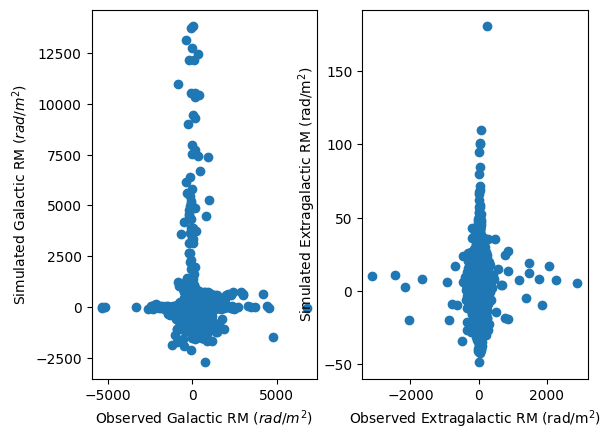
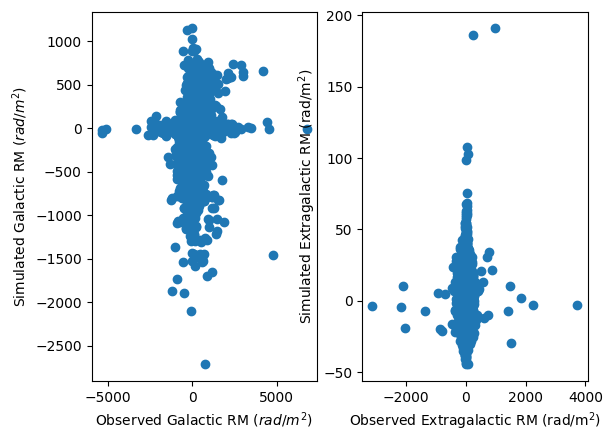
Noise std sampled from observed values.

diff --git a/catalog_maker.py b/catalog_maker.py
@@ -75,7 +75,7 @@ class CatalogMaker():
 
         if(self.params['params_mock_cat.maker_params.maker_type'] == "seb23"):
 
-            rm_gal, b, dm =seb23(self.params['params_mock_cat.maker_params.seed'])
+            rm_gal, b, dm =seb23(self.params)
 
             if self.params['params_mock_cat.maker_params.disk_on']==1:
                 eg_gal_data = eg_projector(rm_gal)
@@ -114,48 +114,50 @@ class CatalogMaker():
         egal_mock_position = ift.full(emodel.get_model().domain, 0.0)
         print(f'mock:{egal_mock_position.val}')
 
-        ### Specify noise
-        noise_eg = self.params['params_mock_cat.maker_params.noise_eg']
-        noise_gal = self.params['params_mock_cat.maker_params.noise_gal']
-
-        print('EG Noise std =', noise_eg)
-        print('Gal Noise std =', noise_gal)
 
         rm_data=np.array(eg_gal_data.val)
 
-        if self.params['params_mock_cat.maker_params.npi']==True:
-            b_indices=np.where(np.isnan(data['z_best']))[0]
-            np.random.seed(seed=self.params['params_mock_cat.maker_params.seed'])
-            npi_indices=np.unique(np.random.choice(b_indices, size=self.params['params_mock_cat.maker_params.npi_los']))
-            print(npi_indices)
-            print(npi_indices.size)
-            rm_data[npi_indices] += 14000*np.exp(-np.abs(eg_b[npi_indices]))
-           # y = rm_data
-           # for i in (npi_indices):
-           #     rm_data[i]+=14000*np.exp(-eg_b[i])
+        #creating mock sigma gal
+        #NVSS cat 2009ApJ...702.1230T
+        #LoTSS cat "LoTSS DR2 (O'Sullivan et al. 2022) "
+        cat_index_gal=np.where(data['catalog']==self.params['params_mock_cat.maker_params.cat_gal'])[0][~np.isnan(np.where(data['catalog']==self.params['params_mock_cat.maker_params.cat_gal'])[0])]
+        sigma_gal = data['rm_err'][cat_index_gal]
+        histogram_sigma_gal = rv_histogram(np.histogram(sigma_gal, bins=10000), density=False)
+        sigma_gal_mock=histogram_sigma_gal.rvs(size=ltheta-lerm)
+        sigma_gal_mock_field=ift.Field.from_raw(ift.UnstructuredDomain(ltheta-lerm),np.array(sigma_gal_mock))
+        N_gal = ift.DiagonalOperator(sigma_gal_mock_field**2, domain=ift.UnstructuredDomain(ltheta-lerm), sampling_dtype=np.float64)
 
-
-        N_eg = ift.ScalingOperator(ift.UnstructuredDomain(lerm), noise_eg**2, np.float64)
-        N_gal = ift.ScalingOperator(ift.UnstructuredDomain(ltheta-lerm), noise_gal**2, np.float64)
 
         ### rm data assembly ###
         rm_data[np.isnan(data['z_best'])] +=  N_gal.draw_sample().val
         print(rm_data.min(), rm_data.max(), rm_data.mean())
 
+        #creating mock sigma eg
+        cat_index_eg=np.where(data['catalog']==self.params['params_mock_cat.maker_params.cat_eg'])[0][~np.isnan(np.where(data['catalog']==self.params['params_mock_cat.maker_params.cat_eg'])[0])]
+        sigma_eg = data['rm_err'][cat_index_eg]
+        histogram_sigma_eg = rv_histogram(np.histogram(sigma_eg, bins=100), density=False)
+        sigma_eg_mock=histogram_sigma_eg.rvs(size=lerm)
+        sigma_eg_mock_field=ift.Field.from_raw(ift.UnstructuredDomain(lerm),np.array(sigma_eg_mock))
+        N_eg = ift.DiagonalOperator(sigma_eg_mock_field**2, domain=ift.UnstructuredDomain(lerm), sampling_dtype=np.float64)
+        rm_data[z_indices]+= N_eg.draw_sample().val
 
-        if self.params['params_mock_cat.maker_params.eg_on']==1:
+
+
+        if self.params['params_mock_cat.maker_params.eg_on']==True:
             np.random.seed(seed=self.params['params_mock_cat.maker_params.seed'])
             rand_rm=np.random.normal(0.0, 1.0,len(e_rm))
             #rand_rm=self.rng.normal(0.0, 1.0,len(e_rm))
             egal_contr = emodel.get_model().sqrt()(egal_mock_position).val*rand_rm
-            rm_data[z_indices]+=egal_contr + N_eg.draw_sample().val
+            rm_data[z_indices]+=egal_contr 
             print('std',np.std(egal_contr))
             print('mean',np.mean(egal_contr))
 
-        #rm_data_field=ift.makeField(ift.UnstructuredDomain(ltheta), rm_data)
         noised_rm_data=ift.makeField(ift.UnstructuredDomain(ltheta), rm_data)
+        #Print noise
+        print('Gal noise', N_gal.draw_sample().val.std())
+        print('Egal noise', N_eg.draw_sample().val.std())
 
-        #noised_rm_data = rm_data_field + N.draw_sample()
+
 
         #Plot 1
         plot = ift.Plot()
@@ -177,8 +179,8 @@ class CatalogMaker():
         plt.savefig('Mock_cat_obs_vs_sim.png', bbox_inches='tight')
 
         data['rm'] = np.array(noised_rm_data.val)
-        data['rm_err'][np.isnan(data['z_best'])] =  noise_gal*np.ones(ltheta-lerm)
-        data['rm_err'][~np.isnan(data['z_best'])] =  noise_eg*np.ones(lerm)
+        data['rm_err'][np.isnan(data['z_best'])] =  sigma_gal_mock*np.ones(ltheta-lerm)
+        data['rm_err'][~np.isnan(data['z_best'])] =  sigma_eg_mock*np.ones(lerm)
         
         hdu= fits.open(self.params['params_inference.cat_path']+'master_catalog_vercustom.fits')
         hdu[1].data['rm'][np.where(hdu[1].data['type']!='Pulsar')] = data['rm']

diff --git a/src/helper_functions/data/get_ymw.py b/src/helper_functions/data/get_ymw.py
@@ -10,24 +10,24 @@ from ..logger import logger, Format
 
 
 
-def load_ymw_sky(data_path, model, mode, nside):
+def load_ymw_sky(model, mode, params):
 
-    filename = data_path + '{}_allsky_{}_{}.fits'.format(model, nside, mode)
+    filename = params['params_inference.dm_path'] + '{}_allsky_{}_{}.fits'.format(model, params['params_inference.nside'], mode)
     if os.path.exists(filename):
-        logger.info("DATA LOADING: load_ymw: loading existing file {} with nside {}".format(filename, nside))
+        logger.info("DATA LOADING: load_ymw: loading existing file {} with nside {}".format(filename, params['params_inference.nside']))
         d_2016 = hp.read_map(filename)
     elif has_pygedm:
         logger.info("DATA LOADING: load_ymw: Generating fullsky healpix dm map based on ymw model... (this may take a while)")
-        pix_id = np.arange(hp.nside2npix(nside))
-        gl, gb = hp.pix2ang(nside, pix_id, lonlat=True)
+        pix_id = np.arange(hp.nside2npix(params['params_inference.nside']))
+        gl, gb = hp.pix2ang(params['params_inference.nside'], pix_id, lonlat=True)
         d_2016 = np.zeros_like(pix_id, dtype='float32')
 
         for ii in pix_id:
             dm, tau = pygedm.dist_to_dm(gl[ii], gb[ii], 100000, mode=mode, method=model)
             if ii % 100000 == 0:
-                logger.info("DATA LOADING: load_yml: converting pixel #{} of {}".format(ii, 12 * nside ** 2))
+                logger.info("DATA LOADING: load_yml: converting pixel #{} of {}".format(ii, 12 * params['params_inference.nside'] ** 2))
             d_2016[ii] = dm.value
-        logger.info("DATA LOADING: load_yml: writing to file {} with nside {}\n".format(filename, nside))
+        logger.info("DATA LOADING: load_yml: writing to file {} with nside {}\n".format(filename, params['params_inference.nside']))
         hp.write_map(filename, d_2016, coord='G')
     else:
         raise ImportError("YMW file not found on disk and pygedm not installed")

diff --git a/mock_seb23.py b/mock_seb23.py
@@ -7,15 +7,15 @@ def pow_spec(k):
     P0, k0, gamma = [Egf.config['params_mock_cat']['power_spec']['P0'], Egf.config['params_mock_cat']['power_spec']['k0'], Egf.config['params_mock_cat']['power_spec']['gamma']]  
     return P0 / (1. + (k/k0)**(-gamma))
 
-def seb23(num_seed):
+def seb23(params):
     # set seed
-    seed = num_seed 
+    seed = params['params_mock_cat.maker_params.seed']
     ift.random.push_sseq_from_seed(seed)    
 
     N=256  #number of pixels
     A = 0.81    # Constant in front of the RM integral in order to have rad/m^2. In that case B is in muG, n is in cm^-3 and the distance in parsec
     
-    data = fits.open('DM_mean_std_Sebastian.fits')
+    data = fits.open(params['params_inference.dm_path']+'DM_mean_std_Sebastian.fits')
 
     dm_new_ar=data[1].data['mean']
 

diff --git a/settings_maker.py b/settings_maker.py
@@ -100,7 +100,7 @@ class Settings_Maker():
         if self.params['params_mock_cat.maker_params.npi']==True:
         # Possible all sky variation of alpha, requires pygedm package 
             alpha = 2.5
-            log_ymw = np.log(Egf.load_ymw_sky('./data/', nside=params['params_inference.nside'], model='ymw16', mode='mc'))
+            log_ymw = np.log(Egf.load_ymw_sky('ymw16', 'mc', params))
             log_ymw /= log_ymw.min()
             log_ymw *= 5
             alpha = implicit_response(ift.Field(ift.makeDomain(implicit_response.domain), log_ymw)).val
